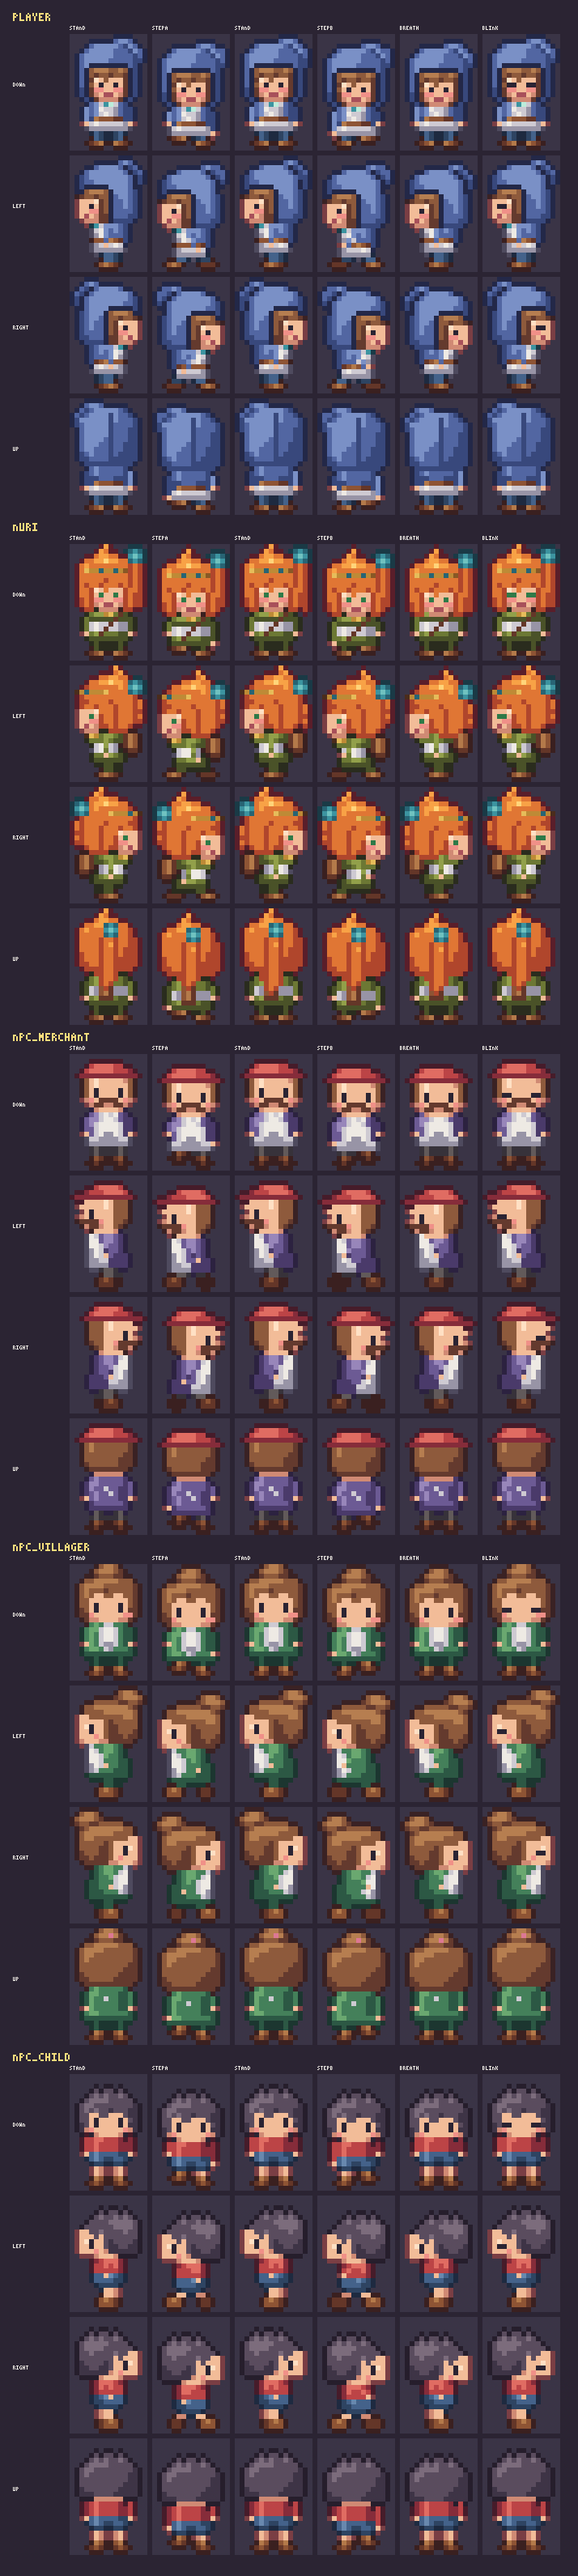
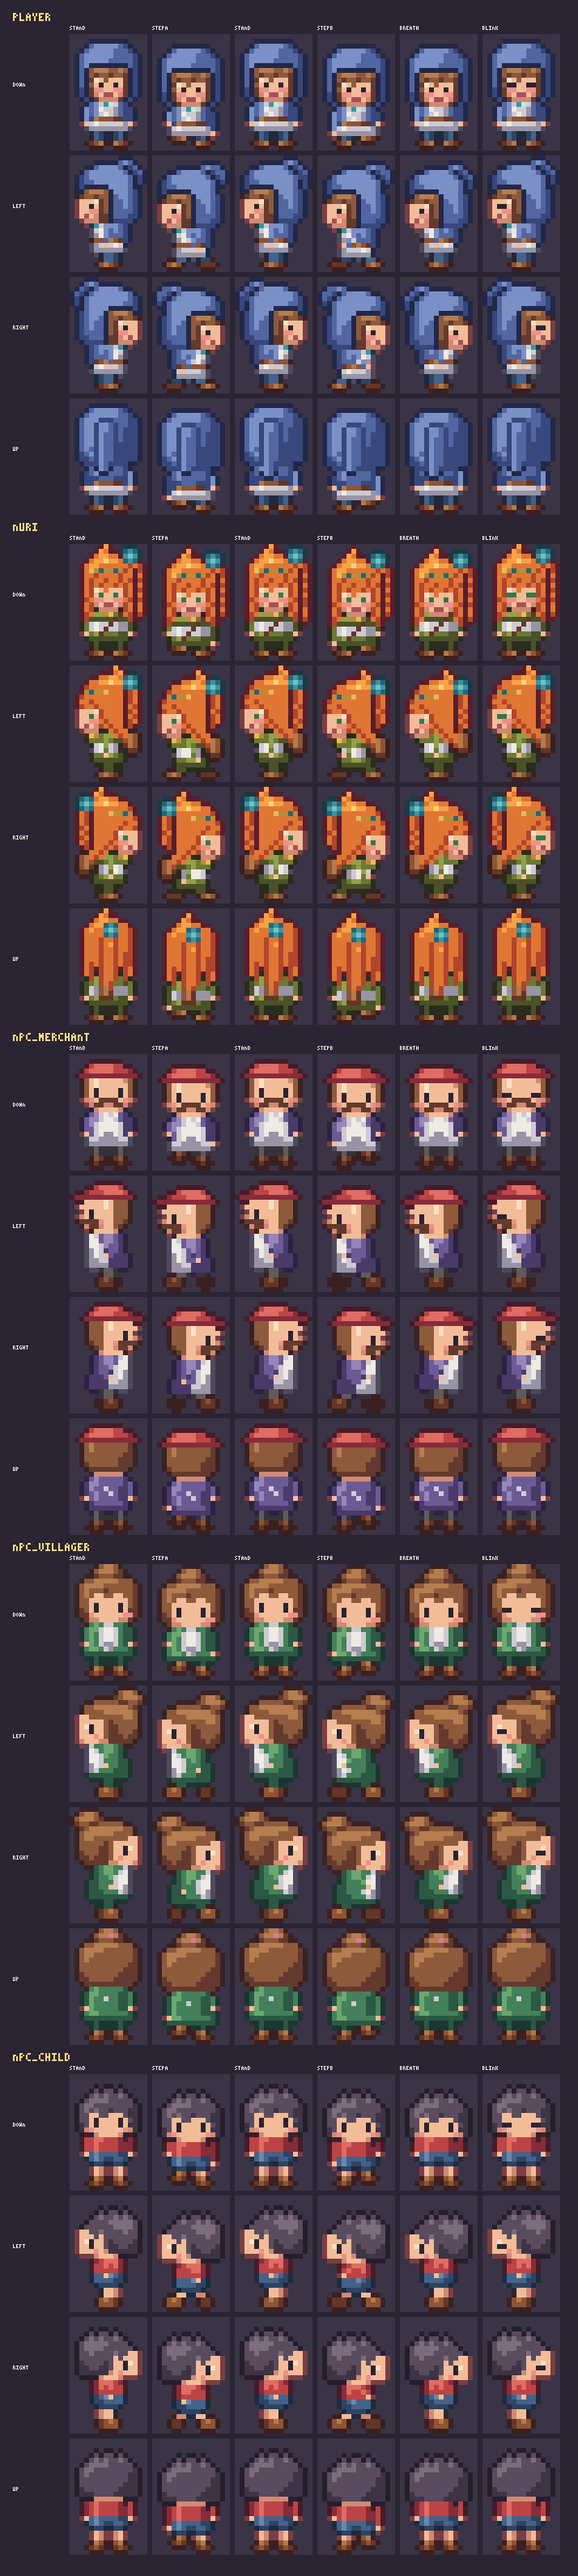
LWITW 화풍(캐릭터): 비교 이미지에 1차 파일럿 칸과 입 비교안(2×1 벌린 입 / 1px / 닫힌 2×1 그늘선) 추가, 미리보기 갱신

diff --git a/tools/art/lwitw_compare.py b/tools/art/lwitw_compare.py
@@ -1,10 +1,12 @@
 """LWITW 화풍(결정 37) 캐릭터 전후 비교 이미지(docs/art-overhaul/lwitw-chars-compare.png)를 만든다.
 
-    python tools/art/lwitw_compare.py [기준 커밋]   # 기본: c152f60(LWITW 규칙 적용 전)
+    python tools/art/lwitw_compare.py [기준 커밋] [1차 파일럿 커밋]   # 기본: c152f60(적용 전), 99b0a90(1차 파일럿)
 
-전: 기준 커밋의 assets/sprites/{player,nuri}.png(git show로 읽음), 후: 지금 디스크의 시트(build.py로 다시 만든 것).
-- 위: 캐릭터 × 방향마다 전/후 6프레임(서기·왼발·서기·오른발 = 걷기 4프레임, 숨쉬기, 깜빡임)을 8배로 나란히
-- 아래: 게임 배율 장면(1배 그림을 4배로). 풀·흙길 타일 위에 네 방향 서기와 걷기 4프레임, 전 줄/후 줄
+전: 기준 커밋의 assets/sprites/{player,nuri}.png(git show로 읽음), 1차: 1차 파일럿 커밋의 같은 파일,
+후: 지금 디스크의 시트(build.py로 다시 만든 것).
+- 위: 캐릭터 × 방향마다 전/1차/후 6프레임(서기·왼발·서기·오른발 = 걷기 4프레임, 숨쉬기, 깜빡임)을 8배로 나란히
+- 가운데: 입 비교안(정면 서기, 8배). 지금 입(2×1 mouth) / 1px 입 / 닫힌 입(2×1 skin.shade). 시트는 지금 입 그대로
+- 아래: 게임 배율 장면(1배 그림을 4배로). 풀·흙길 타일 위에 네 방향 서기와 걷기 4프레임, 전·1차·후 줄
 build.py/check.py의 산출물이 아니므로 한 번 만들어 커밋해 두는 문서용 그림이다.
 """
 import os
@@ -16,8 +18,9 @@ HERE = os.path.dirname(os.path.abspath(__file__))
 sys.path.insert(0, HERE)
 
 import build  # noqa: E402
+from characters import RIGS  # noqa: E402
 from charrig import COLS, DIRS  # noqa: E402
-from cozypal import c  # noqa: E402
+from cozypal import auto_outline, c  # noqa: E402
 from gridlib import PALETTE, Canvas  # noqa: E402
 from png import encode_png, read_png  # noqa: E402
 
@@ -72,6 +75,25 @@ def panel(cv, fr, x, y, s):
     cv.paste(fr, x, y, s)
 
 
+# 입 비교안: 정면 서기 범례 그리드의 입(m)을 바꿔 칠한다
+MOUTHS = (("open 2x1 (sheet)", None), ("1px", "1px"), ("closed 2x1 shade", "line"))
+
+
+def mouth_variant(name, kind):
+    rig = RIGS[name]
+    g = [list(r) for r in rig.letter_frames()[0]]
+    for row in g:
+        xs = [x for x, ch in enumerate(row) if ch == "m"]
+        if kind == "1px" and xs:
+            row[xs[-1]] = "s"
+        elif kind == "line":
+            for x in xs:
+                row[x] = "z"
+    table = {".": ".", **{k: c(v) for k, v in rig.legend.items()}}
+    painted = auto_outline(["".join(table[ch] for ch in r) for r in g])
+    return Canvas(FW, FH).draw(painted)
+
+
 def scene(sheets, row_label_w=0):
     """게임 배율 장면(1배): 풀 3줄 + 흙길 1줄. 네 방향 서기, 그 옆에 아래·오른쪽 걷기 4프레임."""
     tiles = build.TILES
@@ -96,45 +118,54 @@ def scene(sheets, row_label_w=0):
 
 def main():
     rev = sys.argv[1] if len(sys.argv) > 1 else "c152f60"
-    before = {n: sheet_before(rev, n) for n in NAMES}
-    after = {n: sheet_after(n) for n in NAMES}
+    rev1 = sys.argv[2] if len(sys.argv) > 2 else "99b0a90"
+    sets = [(f"before ({rev})", {n: sheet_before(rev, n) for n in NAMES}),
+            (f"pilot 1 ({rev1})", {n: sheet_before(rev1, n) for n in NAMES}),
+            ("after (pilot 2)", {n: sheet_after(n) for n in NAMES})]
 
     S = 8
     cell = FW * S + 6
     side_w = 6 * cell
     label_w = 70
     gap = 40
-    W = 16 + label_w + 2 * side_w + gap + 16
+    W = 16 + label_w + len(sets) * side_w + (len(sets) - 1) * gap + 16
     char_h = 30 + 4 * (FH * S + 10)
     SS = 4
     sc_w = 26 * 16 * SS
     sc_h = 4 * 16 * SS
-    H = 16 + 30 + len(NAMES) * char_h + 30 + 2 * (sc_h + 30) + 16
+    mouth_h = 30 + FH * S + 30
+    H = 16 + 30 + len(NAMES) * char_h + mouth_h + 30 + len(sets) * (sc_h + 30) + 16
     W = max(W, 16 + label_w + sc_w + 16)
     cv = Canvas(W, H, BG)
-    build.text(cv, f"lwitw characters  before ({rev}) | after   8x, 1px grid", 16, 16, 2, HEAD)
+    build.text(cv, f"lwitw characters  before ({rev}) | pilot 1 ({rev1}) | after (pilot 2)   8x, 1px grid",
+               16, 16, 2, HEAD)
     y = 46
-    x_before = 16 + label_w
-    x_after = x_before + side_w + gap
+    xs = [16 + label_w + i * (side_w + gap) for i in range(len(sets))]
     for n in NAMES:
         build.text(cv, n, 16, y, 2, HEAD)
-        build.text(cv, "before", x_before, y, 2, TXT)
-        build.text(cv, "after", x_after, y, 2, TXT)
-        for k in range(6):
-            build.text(cv, COLS[k], x_before + k * cell + 60, y + 4, 1, TXT)
-            build.text(cv, COLS[k], x_after + k * cell + 60, y + 4, 1, TXT)
+        for (label, _), x0 in zip(sets, xs):
+            build.text(cv, label, x0, y, 2, TXT)
         yy = y + 30
         for d in range(4):
             build.text(cv, DIRS[d], 16, yy + FH * S // 2, 2, TXT)
-            for k in range(6):
-                panel(cv, frame(before[n], d, k), x_before + k * cell, yy, S)
-                panel(cv, frame(after[n], d, k), x_after + k * cell, yy, S)
+            for (_, sheets), x0 in zip(sets, xs):
+                for k in range(6):
+                    panel(cv, frame(sheets[n], d, k), x0 + k * cell, yy, S)
             yy += FH * S + 10
         y += char_h
+    build.text(cv, "mouth options (front stand, 8x). the sheet keeps the first one", 16, y, 2, HEAD)
+    x = 16 + label_w
+    for n in NAMES:
+        for label, kind in MOUTHS:
+            build.text(cv, f"{n}: {label}", x, y + 18, 1, TXT)
+            panel(cv, mouth_variant(n, kind), x, y + 30, S)
+            x += cell + 40
+        x += 60
+    y += mouth_h
     build.text(cv, "game scale (1x art shown at 4x): 4 directions standing + walk down / walk right", 16, y, 2, HEAD)
     y += 30
-    for label, sheets in (("before", before), ("after", after)):
-        build.text(cv, label, 16, y + sc_h // 2, 2, TXT)
+    for label, sheets in sets:
+        build.text(cv, label.split(" (")[0], 16, y + sc_h // 2, 2, TXT)
         cv.paste(scene(sheets), 16 + label_w, y, SS)
         y += sc_h + 30
     os.makedirs(os.path.dirname(OUT), exist_ok=True)
